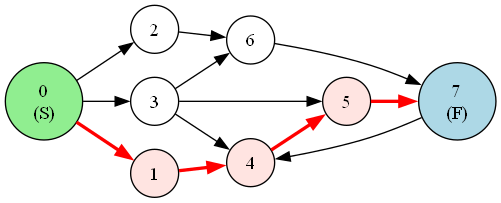
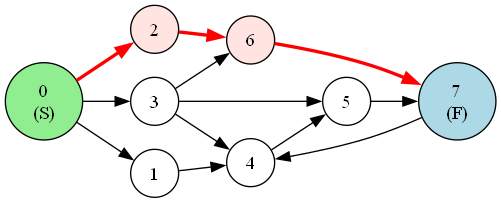
lab1 done

diff --git a/SearchInWidth.cs b/SearchInWidth.cs
@@ -4,15 +4,15 @@ namespace ExpertSystems;
 
 public class SearchInWidth
 {
-    private List<Edge> _listOfEdges;
-    private List<Node> _listOfClosedNodes; // посещённые (уже поставленные в очередь) вершины
-    private Dictionary<Node, Node> _parents; // предок каждой вершины, для восстановления пути
+    private List<Edge> _listOfEdges;                    // список всех ребер
+    private List<Node> _listOfClosedNodes;              // вершины, в которых мы уже побывали
+    private Dictionary<Node, Node> _nodeToParentNode;   // предок каждой вершины, для восстановления пути
 
-    private bool _hasAnswer = false;
-    private bool _hasNoAnswer = false;
+    private bool _hasAnswer = false;    // true = решение есть; false = пока неизвествно
+    private bool _hasNoAnswer = false;  // true = решения нет; false = пока неизвествно
 
-    private Node _startNode;
-    private Node _endNode;
+    private Node _startNode;    // начальная вершина
+    private Node _endNode;      // конечная вершина
 
     public Stack<Node> Start(List<Edge> listOfEdges, Node startNode, Node endNode)
     {
@@ -21,7 +21,7 @@ public class SearchInWidth
 
         // Инициализация списка посещённых вершин и словаря предков
         _listOfClosedNodes = new List<Node>();
-        _parents = new Dictionary<Node, Node>();
+        _nodeToParentNode = new Dictionary<Node, Node>();
 
         // Инициализация списка ребер, начальной и конечной вершин
         _startNode = startNode;
@@ -48,16 +48,24 @@ public class SearchInWidth
 
     private void SearchPath(Queue<Node> listOfOpenNodes)
     {
-        while (!_hasAnswer && !_hasNoAnswer)
+        while (!_hasAnswer && !_hasNoAnswer) // пока нет информации о том, если ли решение или нет...
         {
-            var g = Descendants(listOfOpenNodes);
-            if (_hasAnswer) // нашли решение
-                return;
+            var g = Descendants(listOfOpenNodes); // находим потомков текущей вершины
+            if (_hasAnswer) // если нашли решение...
+                return;     // ...выход
+            
+            if (g != 0)     // если есть потомки...
+                continue;   // ...продолжаем работу
 
-            if (g == 0 && listOfOpenNodes.Count == 0)
+            // если дошли до сюда, то точно известно, что потомков нет
+            // либо в тупике, либо нет виршин для исследования
+            // тупик не страшен, ибо могут быть в очереди следующие вершины TODO
+            
+            // если вершин для исследования больше нет
+            if (listOfOpenNodes.Count == 0)
             {
-                // очередь пуста и новых потомков не появилось - решений нет
-                _hasNoAnswer = true;
+                // ...то нет решений, запоминаем этот вариант
+                _hasNoAnswer = true; // помечаем флаг, что РЕШЕНИЯ НЕТ
                 return;
             }
         }
@@ -65,69 +73,65 @@ public class SearchInWidth
 
     private int Descendants(Queue<Node> listOfOpenNodes)
     {
-        var g = 0; // число добавленных потомков
-
+        // если нет вершин для исследования - выход
         if (listOfOpenNodes.Count == 0)
             return 0;
+        
+        var g = 0; // число найденных потомков
+        var subAim = listOfOpenNodes.Dequeue(); // берем вершину как подцель и удаляем ее из очереди
 
-        // в отличие от поиска в глубину, здесь разбираем СРАЗУ ВСЕ рёбра
-        // из текущей вершины, а не только одного потомка за вызов
-        var subAim = listOfOpenNodes.Dequeue();
-
-        for (var i = 0; i < _listOfEdges.Count; i++)
+        for (var i = 0; i < _listOfEdges.Count; i++) // и ищем всех потомков для этой подцели
         {
-            var currentEdge = _listOfEdges[i];
+            var currentEdge = _listOfEdges[i]; // берем ребро
+            
+            if (currentEdge.From != subAim) // если начало ребра не соответствует подцели...
+                continue;                   // ... игнорируем ребро
 
-            if (currentEdge.From != subAim)
-                continue;
-
-            if (currentEdge.To == _endNode)
+            // до это точки доходят все ребра с началом равным подцели
+            
+            if (currentEdge.To == _endNode) // если конец ребра соответствует финальной цели
             {
-                // нашли решение
-                _parents[currentEdge.To] = subAim;
-                _hasAnswer = true;
-                g++;
+                _nodeToParentNode[currentEdge.To] = subAim; // записываем, что перед финальной вершиной была вершина подцели
+                _hasAnswer = true; // ставим флаг, что РЕШЕНИЕ ЕСТЬ
+                g++; // увеличиваем количество найденных потомков, но это не повлияет на работу алгоритма
                 break;
             }
 
+            // если ребро не помечено и конец ребра не лежит в закрытых вершинах
             if (!currentEdge.Mark && !_listOfClosedNodes.Contains(currentEdge.To))
             {
                 // есть потомок, но он не решение - ставим в очередь
                 currentEdge.Mark = true;
-                _listOfEdges[i] = currentEdge; // Edge — структура, иначе пометка теряется
+                _listOfEdges[i] = currentEdge;
 
-                _listOfClosedNodes.Add(currentEdge.To);
-                _parents[currentEdge.To] = subAim;
-                listOfOpenNodes.Enqueue(currentEdge.To);
-                g++;
+                _listOfClosedNodes.Add(currentEdge.To); // помечаем вершину как закрытую
+                _nodeToParentNode[currentEdge.To] = subAim; // записываем, что родителем вершины была подцель
+                listOfOpenNodes.Enqueue(currentEdge.To); // добавляем вершину из очереди
+                g++; // увеличиваем количество найденных потомков
             }
         }
 
-        // если ни одного нового потомка не нашлось - g остаётся 0
+        // если ни одного нового потомка не нашлось - g остается 0
         return g;
     }
 
+    // собираем решение из словаря родителей
     private Stack<Node> BuildPath()
     {
         var result = new Stack<Node>();
 
-        if (!_hasAnswer)
+        if (!_hasAnswer) // если решениея нет, то и смысл строить пути тоже нет
             return result;
 
         // идём от конечной вершины к начальной по словарю предков
-        var path = new List<Node> { _endNode };
+        result.Push(_endNode);
+        
         var current = _endNode;
         while (current != _startNode)
         {
-            current = _parents[current];
-            path.Add(current);
+            current = _nodeToParentNode[current];
+            result.Push(current);
         }
-
-        // разворачиваем (start ... end) и кладём в стек так,
-        // чтобы верх стека был конечной вершиной - как и в поиске в глубину
-        path.Reverse();
-        foreach (var node in path)
-            result.Push(node);
 
         return result;
     }

diff --git a/SearchInDepth.cs b/SearchInDepth.cs
@@ -1,29 +1,28 @@
-using System.Diagnostics;
-using ExpertSystems.graph;
+using ExpertSystems.graph;
 
 namespace ExpertSystems;
 
 public class SearchInDepth
 {
-    private List<Edge> _listOfEdges;
-    private List<Node> _listOfClosedNodes;
-    private List<Node> _listOfBlockedNodes;
+    private List<Edge> _listOfEdges;        // список всех ребер
+    private List<Node> _listOfClosedNodes;  // вершины, в которых мы уже побывали
+    private List<Node> _listOfBlockedNodes; // тупиковые вершины
 
-    private bool _hasAnswer = false;
-    private bool _hasNoAnswer = false;
+    private bool _hasAnswer = false;    // true = решение есть; false = пока неизвествно
+    private bool _hasNoAnswer = false;  // true = решения нет; false = пока неизвествно
 
-    private Node _startNode;
-    private Node _endNode;
+    private Node _startNode;    // начальная вершина
+    private Node _endNode;      // конечная вершина
 
     public Stack<Node> Start(List<Edge> listOfEdges, Node startNode, Node endNode)
     {
         _hasAnswer = false;
         _hasNoAnswer = false;
-        
+
         // Инициализация списков закрытых и запрещенных вершин
         _listOfClosedNodes = new List<Node>();
         _listOfBlockedNodes = new List<Node>();
-        
+
         // Инициализация списка ребер, начальной и конечной вершин
         _startNode = startNode;
         _endNode = endNode;
@@ -34,10 +33,11 @@ public class SearchInDepth
             edge.Mark = false;
             _listOfEdges[i] = edge;
         }
-        
-        // Положил стартыую вершину в стек открытых вершин
+
+        // Кладем стартовую вершину в стек открытых вершин
         var listOfOpenNodes = new Stack<Node>();
         listOfOpenNodes.Push(_startNode);
+        _listOfClosedNodes.Add(_startNode);
 
         // Запуск метода поиска решения
         SearchPath(listOfOpenNodes);
@@ -48,26 +48,31 @@ public class SearchInDepth
 
     private void SearchPath(Stack<Node> listOfOpenNodes)
     {
-        while (!_hasAnswer && !_hasNoAnswer)
+        while (!_hasAnswer && !_hasNoAnswer) // пока нет информации о том, если ли решение или нет...
         {
-            var g = Descendants(listOfOpenNodes);
-            if (_hasAnswer) // нашли решение
-                return;
+            var g = Descendants(listOfOpenNodes); // находим потомков текущей вершины
+            if (_hasAnswer) // если нашли решение...
+                return;     // ...выход
+
+            if (g != 0)     // если есть потомок...
+                continue;   // ...продолжаем работу
             
-            if (g == 1)
-                continue;
+            // если дошли до сюда, то точно известно, что потомков нет
+            // либо в тупике, либо нет виршин для исследования
             
-            if (listOfOpenNodes.Count != 0) // убрал g == 0, заменил на проверку выше
+            // запрещаем тупиковую вершину, если такая есть
+            if (listOfOpenNodes.Count != 0) 
             {
                 // бэктрекинг
                 var top = listOfOpenNodes.Pop();
                 _listOfBlockedNodes.Add(top);
             }
             
-            if (listOfOpenNodes.Count == 0)// нет смысла проверять на пустоту, если верхнее условие не выполнено
+            // если после удаления кончились вершины для исследования...
+            if (listOfOpenNodes.Count == 0)
             {
-                // нет решений, запоминаем этот вариант
-                _hasNoAnswer = true;
+                // ...то нет решений, запоминаем этот вариант
+                _hasNoAnswer = true; // помечаем флаг, что РЕШЕНИЯ НЕТ
                 return;
             }
         }
@@ -75,35 +80,37 @@ public class SearchInDepth
 
     private int Descendants(Stack<Node> listOfOpenNodes)
     {
+        // если нет вершин для исследования - выход
+        if (listOfOpenNodes.Count == 0)
+            return 0;
+        
+        
         var g = 0; // число потомков
+        var subAim = listOfOpenNodes.Peek(); // берем вершину как подцель (но не исключаем ее из стека)
 
-        for (int i = 0; i < _listOfEdges.Count; i++)
+        for (int i = 0; i < _listOfEdges.Count; i++) // пробегаемя по ребрам
         {
-            var currentEdge = _listOfEdges[i];
-            if (listOfOpenNodes.Count == 0)
-            {
-                return 0;
-            }
-            
-            var subAim = listOfOpenNodes.Peek();
+            var currentEdge = _listOfEdges[i]; // берем ребро
 
+            // если начало ребра соответствует подцели и конец ребра соответствует главной цели...
             if (currentEdge.From == subAim && currentEdge.To == _endNode)
             {
-                g = 1; // есть потомок
-                listOfOpenNodes.Push(currentEdge.To); // для вывода решения
-                _hasAnswer = true;
+                g = 1; // есть потомок, но это не так важно для проверки
+                listOfOpenNodes.Push(currentEdge.To); // добавляем финальную цель в стек для красивого вывода
+                _hasAnswer = true; // ставим флаг, что РЕШЕНИЕ ЕСТЬ
                 break;
             }
             
-            if (currentEdge.From == subAim
-                && !currentEdge.Mark
-                && !_listOfBlockedNodes.Contains(currentEdge.To)
-                && !listOfOpenNodes.Contains(currentEdge.To)) // защита от циклов: вершина уже на пути
+            if (currentEdge.From == subAim                          // если начало ребра соответствует подцели...
+                && !currentEdge.Mark                                // ...и ребро не помечено...
+                && !_listOfBlockedNodes.Contains(currentEdge.To)    // ...и конец ребра не входит в запрещенные вершины...
+                && !_listOfClosedNodes.Contains(currentEdge.To))    // ...и не входит в закрытые вершины
             {
-                g = 1; // есть потомк, но он не решение
-                listOfOpenNodes.Push(currentEdge.To);
-                currentEdge.Mark = true;
-                _listOfEdges[i] = currentEdge; // Edge — структура, иначе пометка теряется
+                g = 1; // есть потомок, но он не решение
+                listOfOpenNodes.Push(currentEdge.To); // добавляем потомка в списко вершин для осмотра
+                _listOfClosedNodes.Add(currentEdge.To); // помечаем вершину как закрытую, ибо мы в нее зашли
+                currentEdge.Mark = true; // помечаем ребро как пройденное
+                _listOfEdges[i] = currentEdge; // Edge — структура, потому сохраняем так для сохранения метки
                 break;
             }
         }

diff --git a/Program.cs b/Program.cs
@@ -5,10 +5,10 @@ using ExpertSystems.graph;
 var graphPaths = new[]
 {
     @"C:\Work\Repos\ExpertSystems\Examples\graph.txt",
-    @"C:\Work\Repos\ExpertSystems\Examples\graph_deadend.txt",
-    @"C:\Work\Repos\ExpertSystems\Examples\graph_cycle.txt",
-    @"C:\Work\Repos\ExpertSystems\Examples\graph_nosolution.txt",
-    @"C:\Work\Repos\ExpertSystems\Examples\graph_shortest_vs_long.txt",
+    // @"C:\Work\Repos\ExpertSystems\Examples\graph_deadend.txt",
+    // @"C:\Work\Repos\ExpertSystems\Examples\graph_cycle.txt",
+    // @"C:\Work\Repos\ExpertSystems\Examples\graph_nosolution.txt",
+    // @"C:\Work\Repos\ExpertSystems\Examples\graph_shortest_vs_long.txt",
 };
 
 foreach (var graphPath in graphPaths)
@@ -29,12 +29,10 @@ foreach (var graphPath in graphPaths)
 
     if (answerDepth.Count != 0)
     {
-        Console.WriteLine("Вот решение");
+        Console.WriteLine("Решение:");
         pathDepth = answerDepth.Reverse().ToList();
         foreach (var node in pathDepth)
-        {
             Console.WriteLine(node);
-        }
     }
     else
     {
@@ -61,12 +59,10 @@ foreach (var graphPath in graphPaths)
 
     if (answerWidth.Count != 0)
     {
-        Console.WriteLine("Вот решение");
-        pathWidth = answerWidth.Reverse().ToList();
+        Console.WriteLine("Решение:");
+        pathWidth = answerWidth.ToList();
         foreach (var node in pathWidth)
-        {
             Console.WriteLine(node);
-        }
     }
     else
     {

diff --git a/Graph/Edge.cs b/Graph/Edge.cs
@@ -2,7 +2,6 @@
 
 public struct Edge
 {
-    public int EdgeNum;
     public bool Mark;
     
     public Node From;
